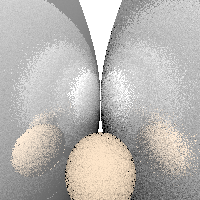
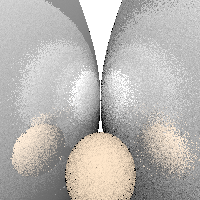
fix shininess bug and produce tenthousand!

diff --git a/ray_tracer/program_optimize.py b/ray_tracer/program_optimize.py
@@ -131,7 +131,7 @@ class PNG:
         self.forward = np.array([0, 0, -1])
         self.up = np.array([0, 1, 0])
         self.exposureV = None
-        self.currentShininess = None
+        self.currentShininess = np.array([0.0, 0.0, 0.0])
         self.currentRoughness = 0
         self.bounces = 4
         self.aaNum = 1
@@ -164,6 +164,7 @@ class PNG:
             forward_length = np.linalg.norm(forward)
             forward /= forward_length
         for xs in range(self.w):
+            # print("Rendering xs=", xs)
             for ys in range(self.h):
                 # print("Rendering pixels: ", xs, ys)
                 # shoot aaNum rays on this pixel, and average the color
@@ -226,7 +227,7 @@ class PNG:
         if(np.dot(ray_direction, normal) > 0):
             normal = -normal
         diffuseColor = self.getDiffuseLightWithShadows(intersection, hit_object, normal)
-        if(bounces > 0 and hit_object.shininess is not None):
+        if(bounces > 0 and np.any(hit_object.shininess > 0)):
             ray2_origin = intersection
             ray2_direction = 2 * np.dot(normal, -ray_direction) * normal + ray_direction
             reflectedColor, _ = self.ray_tracing(ray=[ray2_origin, ray2_direction], emittingObject=hit_object, bounces=bounces-1)
